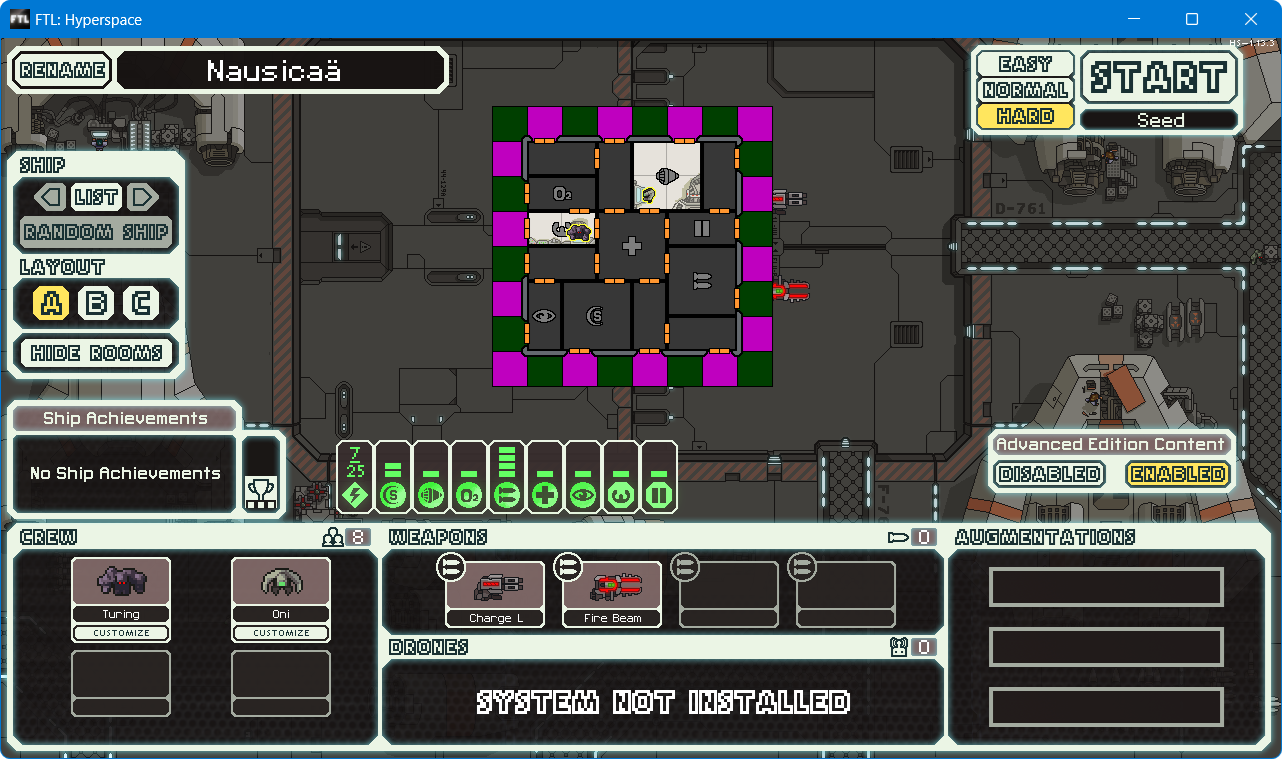
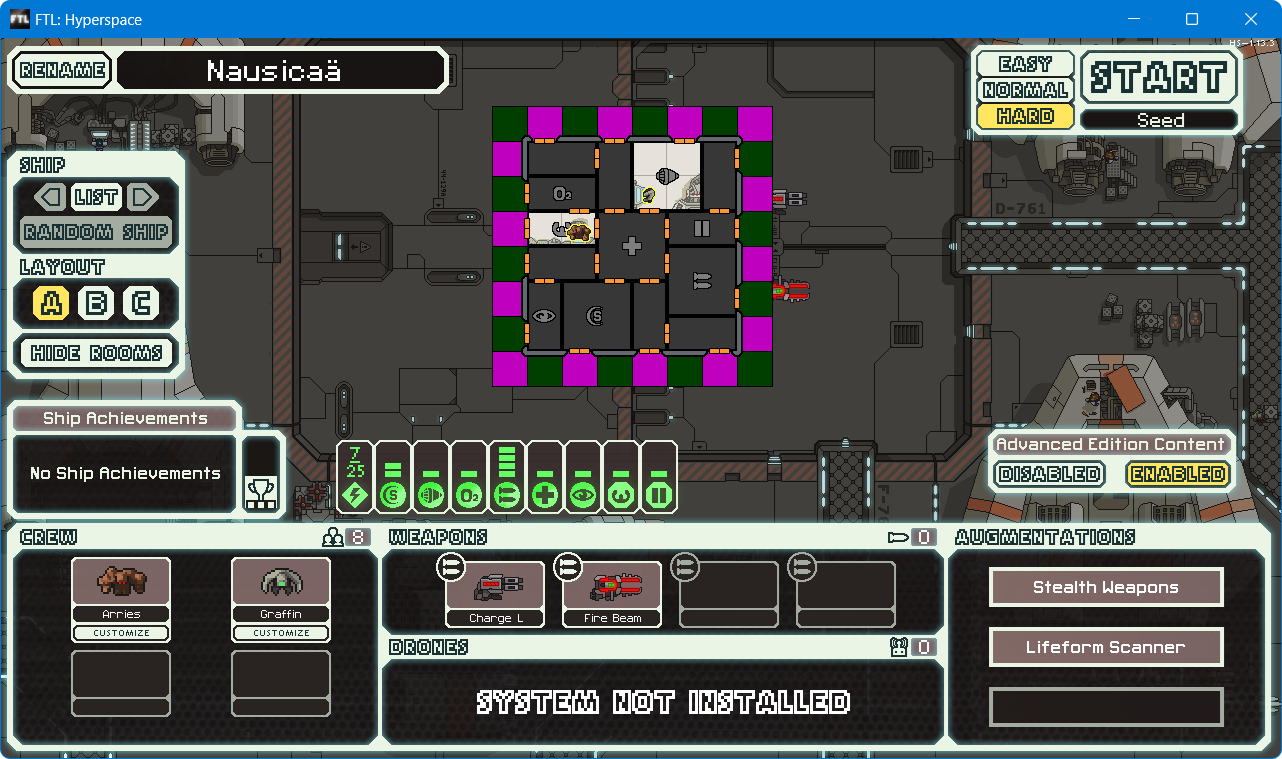
Update from 1.4.2 to 1.5
All ships made easier.
Square A: Added Lifeform Scanner and Stealth Weapons augments.
Square B: Added Hull Repair.
Square C: Engines level from 1 to 4, Piloting level from 1 to 2, Reactor from 6 to 7.

diff --git a/README.md b/README.md
@@ -1,5 +1,5 @@
 # SquareCruiser
-Mod that adds the Square Cruiser to the game FTL: Faster Than Light. Latest version: 1.4
+Mod that adds the Square Cruiser to the game FTL: Faster Than Light. Latest version: 1.5
 
 Requires the [Hyperspace mod](https://github.com/FTL-Hyperspace/FTL-Hyperspace) for the multi-page ship list, as it does not replace any vanilla ship. Hyperspace also has a fix for the "WEAPONS" and "AUTOFIRE" graphics overlapping for ships with 2 or less max weapons, applicable for Square B.
 
@@ -16,12 +16,11 @@ Pros (all layouts):
 
 Cons (all layouts):
 <ol>
-	<li>Low starting crew, system levels and/or reactor.</li>
 	<li>Compact design means it is more likely for enemy beams to hit multiple rooms.</li>
 	<li>Less systemless rooms means it is more likely for the enemy to damage an important room.</li>
 </ol>
 
-Lore: The Federation is strapped on cash, thus ships are compact and poorly-equipped, not even enough for proper textures.
+Lore: The Federation is strapped on cash, not even enough for proper textures, thus ships are designed to be minimalistic.
 
 [Square A in Hangar](https://raw.githubusercontent.com/CommunistMountain/SquareCruiser/main/preview-images/SquareA%20Promo.png)
 
@@ -45,7 +44,7 @@ Square A (Nausicaä): Weapon focus. "This ship is designed to burn enemy ships. 
 	</tr>
 	<tr>
 		<td>Augmentations</td>
-		<td>None</td>
+		<td>Lifeform Scanner, Stealth Weapons</td>
 	</tr>
 </table>
 
@@ -67,7 +66,7 @@ Square B (The Mothership): Drone focus. "This ship was designed by a drone fanat
 	</tr>
 	<tr>
 		<td>Starting Resources, Reactor, Weapons/Drones</td>
-		<td>0 Missiles, 3 Drone Parts, 7 Reactor, 1 Ion Blast, 1 Combat Drone 1, 1 Beam Drone 1, 1 System Repair Drone</td>
+		<td>0 Missiles, 3 Drone Parts, 7 Reactor, 1 Ion Blast, 1 Combat Drone 1, 1 Beam Drone 1, 1 System Repair Drone, 1 Hull Repair</td>
 	</tr>
 	<tr>
 		<td>Augmentations</td>
@@ -85,7 +84,7 @@ Square C (Ragnarr Loðbrók): Boarding focus. "This ship goes all-in with the bo
 	</tr>
 	<tr>
 		<td>Systems by Level</td>
-		<td>1: Doors, Engines, Mind Control, Oxygen, Piloting, Weapons; 2: Shields; 3: Teleporter</td>
+		<td>1: Doors, Mind Control, Oxygen, Weapons; 2: Piloting, Shields; 3: Teleporter; 4: Engines</td>
 	</tr>
 	<tr>
 		<td>Weapons/Drones Max Slots</td>
@@ -93,7 +92,7 @@ Square C (Ragnarr Loðbrók): Boarding focus. "This ship goes all-in with the bo
 	</tr>
 	<tr>
 		<td>Starting Resources, Reactor, Weapons/Drones</td>
-		<td>0 Missiles, 0 Drone Parts, 6 Reactor</td>
+		<td>0 Missiles, 0 Drone Parts, 7 Reactor</td>
 	</tr>
 	<tr>
 		<td>Augmentations</td>
